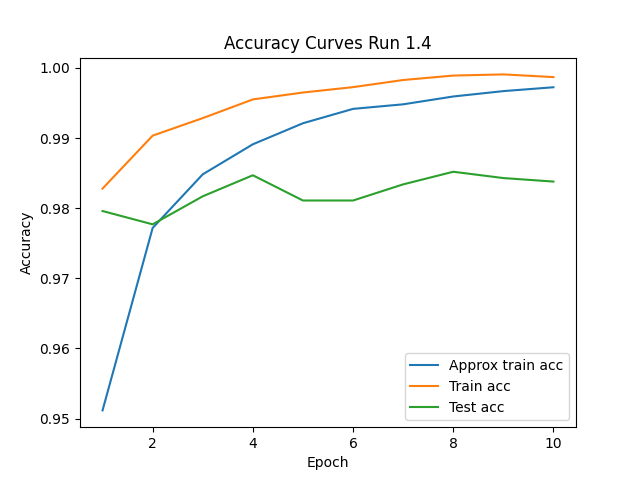
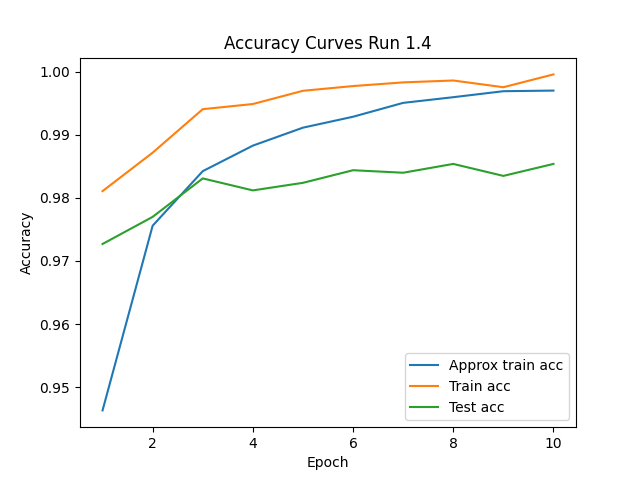
some fixes + 2.1 implementation

diff --git a/main.py b/main.py
@@ -66,7 +66,6 @@ def construct_dataloaders(train_dataset, test_dataset, batch_size, shuffle_train
 	test_dataloader = torch.utils.data.DataLoader(dataset=test_dataset,batch_size=100,shuffle=shuffle_train)
 	return(train_dataloader,test_dataloader)
 
-
 # evaluate a trained model on MNIST data
 #
 # dataloader    dataloader of examples to evaluate on
@@ -125,6 +124,17 @@ def make_fully_connected_model_part1_4():
 		torch.nn.BatchNorm1d(num_features=10)
 	)
 	return model
+
+def make_fully_connected_model_custom_part2_2(hidden_dim=1024, num_hidden_layers=2):
+	layers = [torch.nn.Flatten()]
+	in_dim = 28 * 28
+	for _ in range(num_hidden_layers):
+		layers.append(torch.nn.Linear(in_features=in_dim, out_features=hidden_dim))
+		layers.append(torch.nn.ReLU())
+		in_dim = hidden_dim
+	layers.append(torch.nn.Linear(in_features=in_dim, out_features=10))
+	return torch.nn.Sequential(*layers)
+
 # build a convolutional neural network, as in Part 3.1
 # use the default initialization for the parameters provided in PyTorch
 #
@@ -230,12 +240,12 @@ def run_1_1(train_dataset,test_dataset):
 	with open("stats_1.1.pkl","wb") as f:
 		pickle.dump(stats,f)
 	print("test accuracy: " + str(stats[3][-1]))
-	print(f"training wall time: {wall_time:.2f}s")
+	print(f"training wall time: {wall_time}s")
 
 def run_1_2(train_dataset,test_dataset):
 	loss_fn = torch.nn.CrossEntropyLoss()
 	model = make_fully_connected_model_part1_1()
-	optimizer = torch.optim.RMSprop(model.parameters(), lr=0.1, alpha=0.9)
+	optimizer = torch.optim.SGD(model.parameters(), lr=0.1, momentum=0.9)
 	train_dataloader,test_dataloader = construct_dataloaders(train_dataset,test_dataset,100)
 	start_time = _sync_and_retrieve_time()
 	stats = train(train_dataloader,test_dataloader,model,loss_fn,optimizer,epochs=10)
@@ -243,7 +253,7 @@ def run_1_2(train_dataset,test_dataset):
 	with open("stats_1.2.pkl","wb") as f:
 		pickle.dump(stats,f)
 	print("test accuracy: " + str(stats[3][-1]))
-	print(f"training wall time: {wall_time:.2f}s")
+	print(f"training wall time: {wall_time}s")
 
 def run_1_3(train_dataset,test_dataset):
 	loss_fn = torch.nn.CrossEntropyLoss()
@@ -256,12 +266,12 @@ def run_1_3(train_dataset,test_dataset):
 	with open("stats_1.3.pkl","wb") as f:
 		pickle.dump(stats,f)
 	print("test accuracy: " + str(stats[3][-1]))
-	print(f"training wall time: {wall_time:.2f}s")
+	print(f"training wall time: {wall_time}s")
 
 def run_1_4(train_dataset,test_dataset):
 	loss_fn = torch.nn.CrossEntropyLoss()
 	model = make_fully_connected_model_part1_4()
-	optimizer = torch.optim.RMSprop(model.parameters(), lr=0.001, alpha=0.9)
+	optimizer = torch.optim.SGD(model.parameters(), lr=0.1, momentum=0.9)
 	train_dataloader,test_dataloader = construct_dataloaders(train_dataset,test_dataset,100)
 	start_time = _sync_and_retrieve_time()
 	stats = train(train_dataloader,test_dataloader,model,loss_fn,optimizer,epochs=10)
@@ -269,7 +279,7 @@ def run_1_4(train_dataset,test_dataset):
 	with open("stats_1.4.pkl","wb") as f:
 		pickle.dump(stats,f)
 	print("test accuracy: " + str(stats[3][-1]))
-	print(f"training wall time: {wall_time:.2f}s")
+	print(f"training wall time: {wall_time}s")
 
 def plot_graphs():
 	model_runs = {
@@ -282,18 +292,10 @@ def plot_graphs():
 	os.makedirs("figures", exist_ok=True)
 
 	for name, filename in model_runs.items():
-		if not os.path.exists(filename):
-			print(f"Missing file {filename}, skipping plots for run {name}.")
-			continue
 		with open(filename, "rb") as f:
 			stats = pickle.load(f)
-		if not isinstance(stats, (list, tuple)) or len(stats) < 6:
-			print(f"Unexpected stats format in {filename}, skipping.")
-			continue
-		if len(stats) == 6:
-			train_loss, train_acc, test_loss, test_acc, approx_tr_loss, approx_tr_acc = stats
-		else:
-			train_loss, train_acc, test_loss, test_acc, approx_tr_loss, approx_tr_acc, _ = stats
+		assert len(stats) == 6
+		train_loss, train_acc, test_loss, test_acc, approx_tr_loss, approx_tr_acc = stats
 		epochs_range = list(range(1, len(approx_tr_loss) + 1))
 
 		fig_loss = pyplot.figure()
@@ -318,6 +320,28 @@ def plot_graphs():
 		pyplot.savefig(f"figures/accuracy_curves_{name}.png")
 		pyplot.close(fig_acc)
 
+def run_momentum_sgd_grid_search(train_dataset, test_dataset):
+	loss_fn = torch.nn.CrossEntropyLoss()
+	step_sizes = [1.0, 0.3, 0.1, 0.03, 0.01, 0.003, 0.001]
+	best_lr = None
+	best_acc = float("-inf")
+	for lr in step_sizes:
+		print(f"Running momentum SGD with lr={lr}")
+		model = make_fully_connected_model_part1_1()
+		optimizer = torch.optim.SGD(model.parameters(), lr=lr, momentum=0.9)
+		train_dataloader, test_dataloader = construct_dataloaders(train_dataset, test_dataset, 100)
+		start_time = _sync_and_retrieve_time()
+		stats = train(train_dataloader, test_dataloader, model, loss_fn, optimizer, epochs=10)
+		wall_time = _sync_and_retrieve_time() - start_time
+		with open(f"stats_grid_momentum_sgd_lr_{lr}.pkl", "wb") as f:
+			pickle.dump(stats, f)
+		test_accuracy = stats[3][-1] if stats[3] else None
+		print("test accuracy: " + str(test_accuracy))
+		print(f"training wall time: {wall_time}s")
+		if test_accuracy is not None and test_accuracy > best_acc:
+			best_acc = test_accuracy
+			best_lr = lr
+	print(f"Best momentum SGD step size: {best_lr} (test accuracy {best_acc})")
 
 if __name__ == "__main__":
 	(train_dataset, test_dataset) = load_MNIST_dataset()
